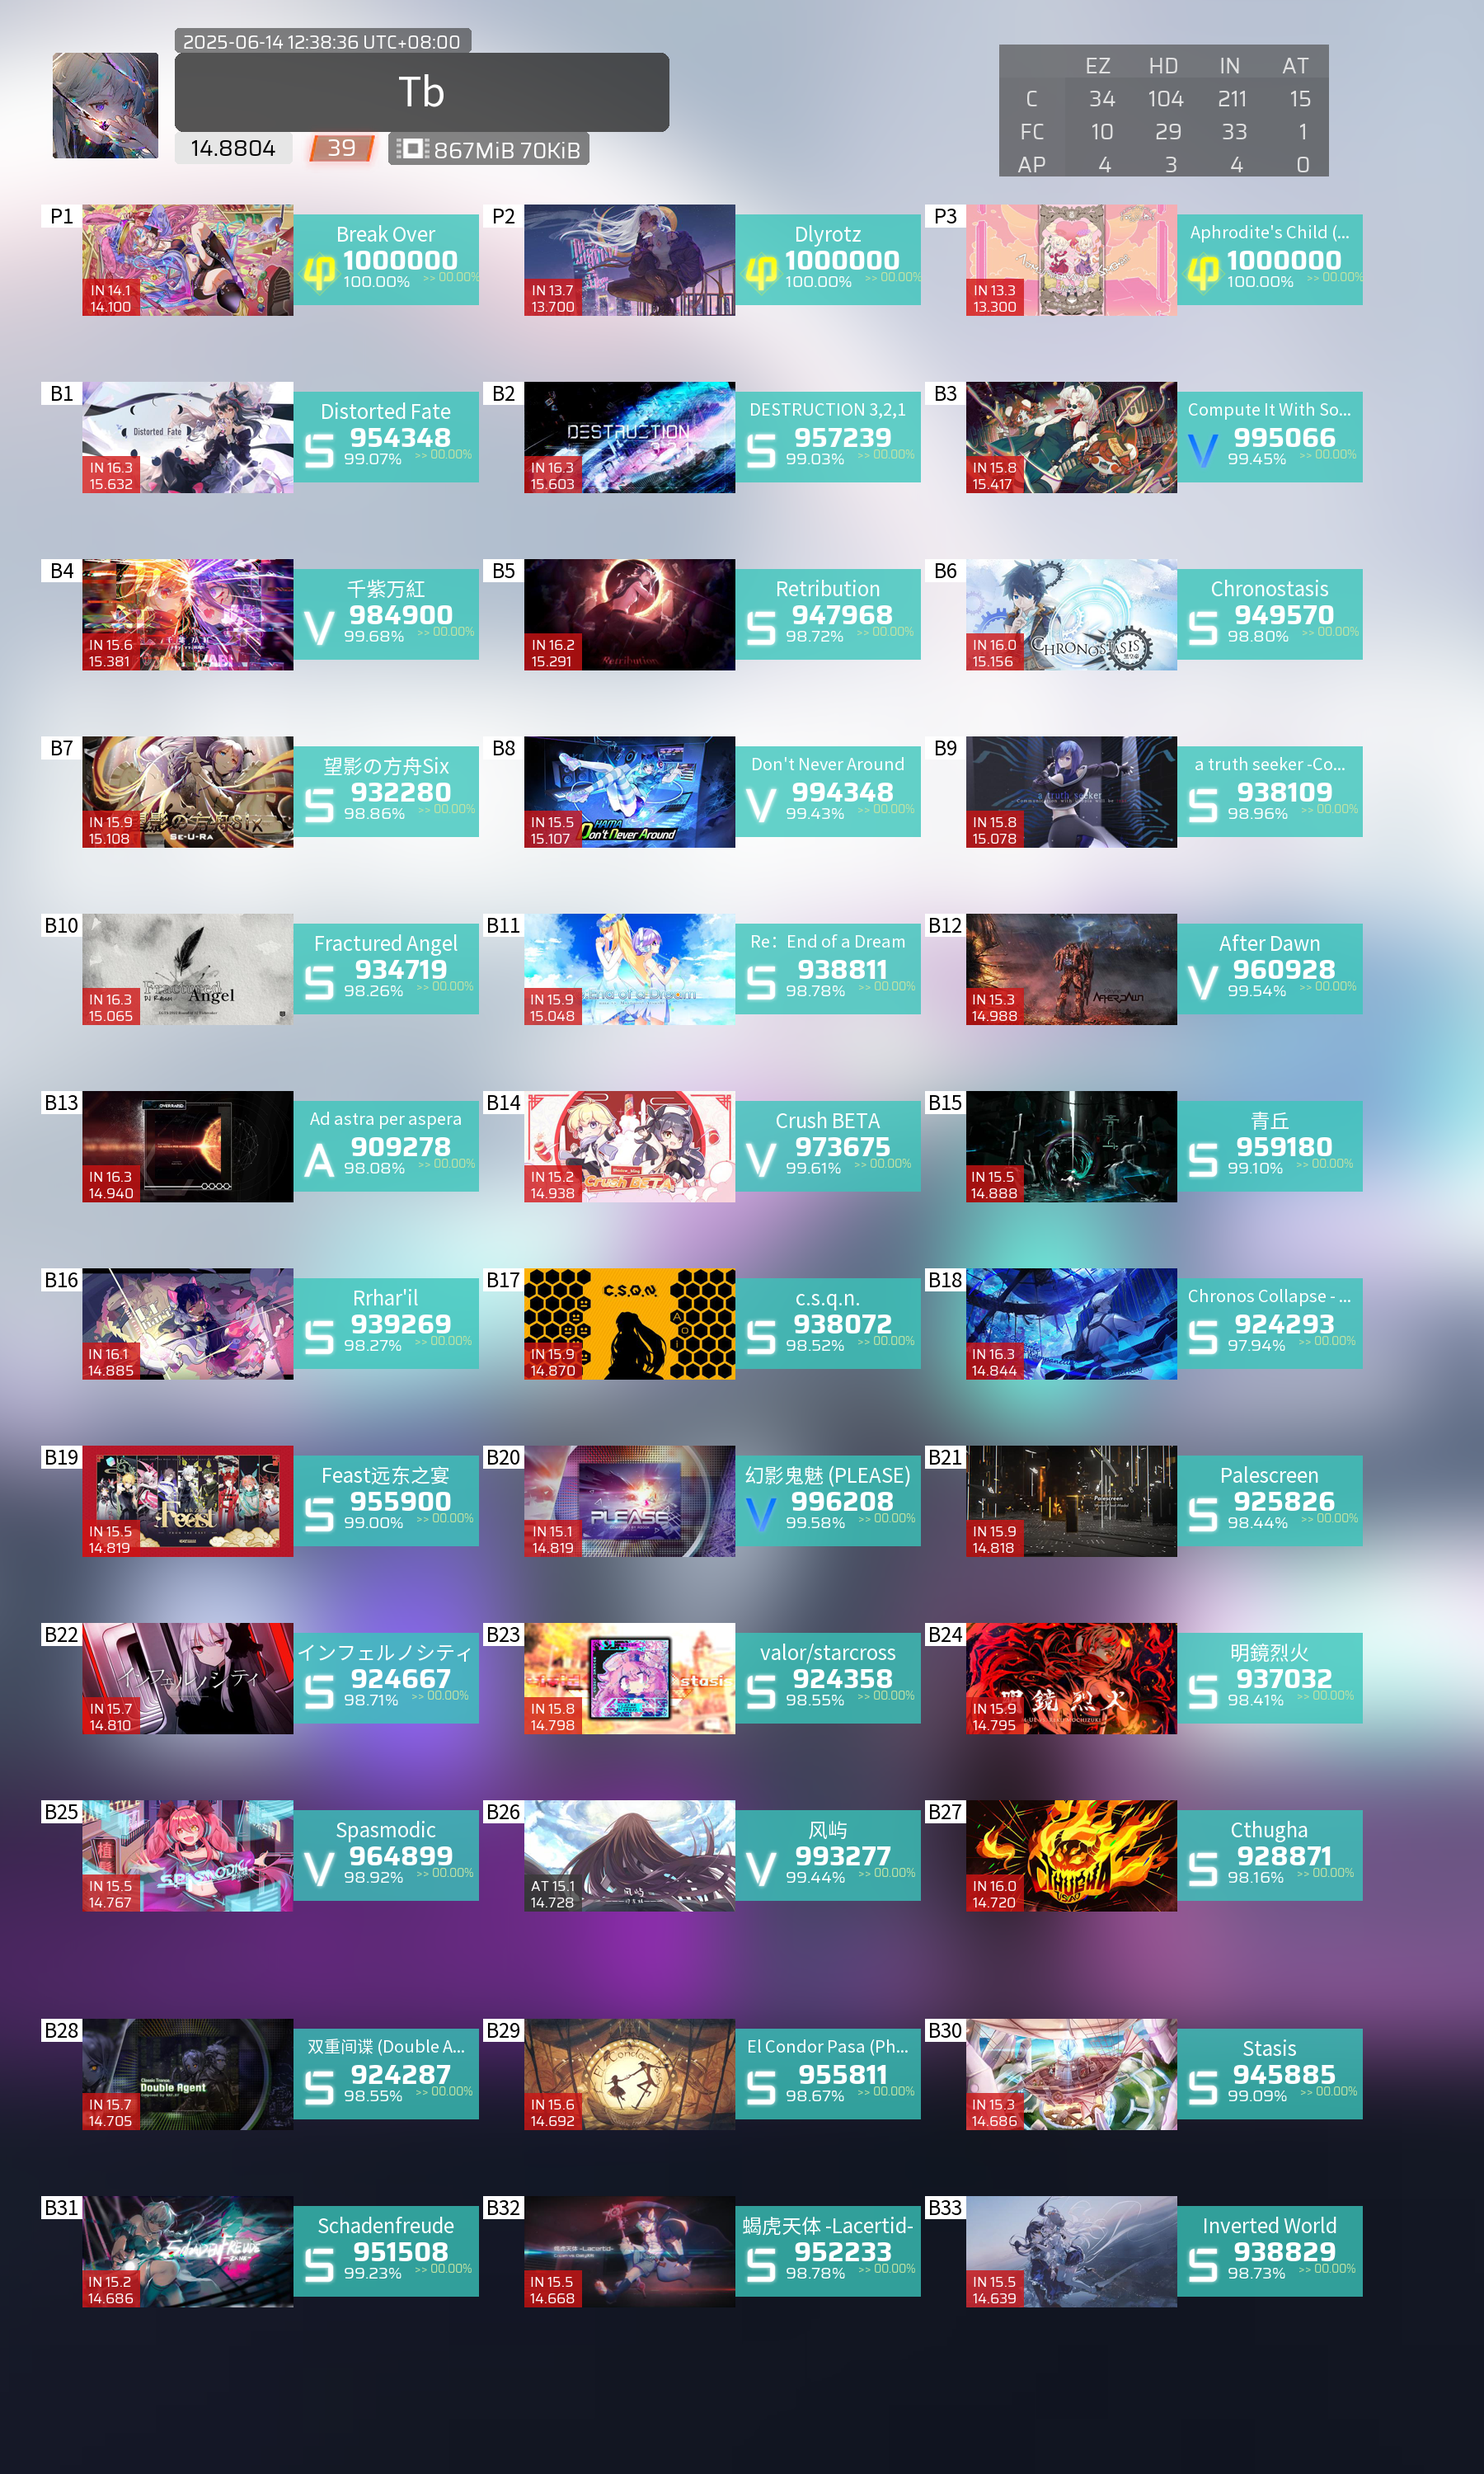
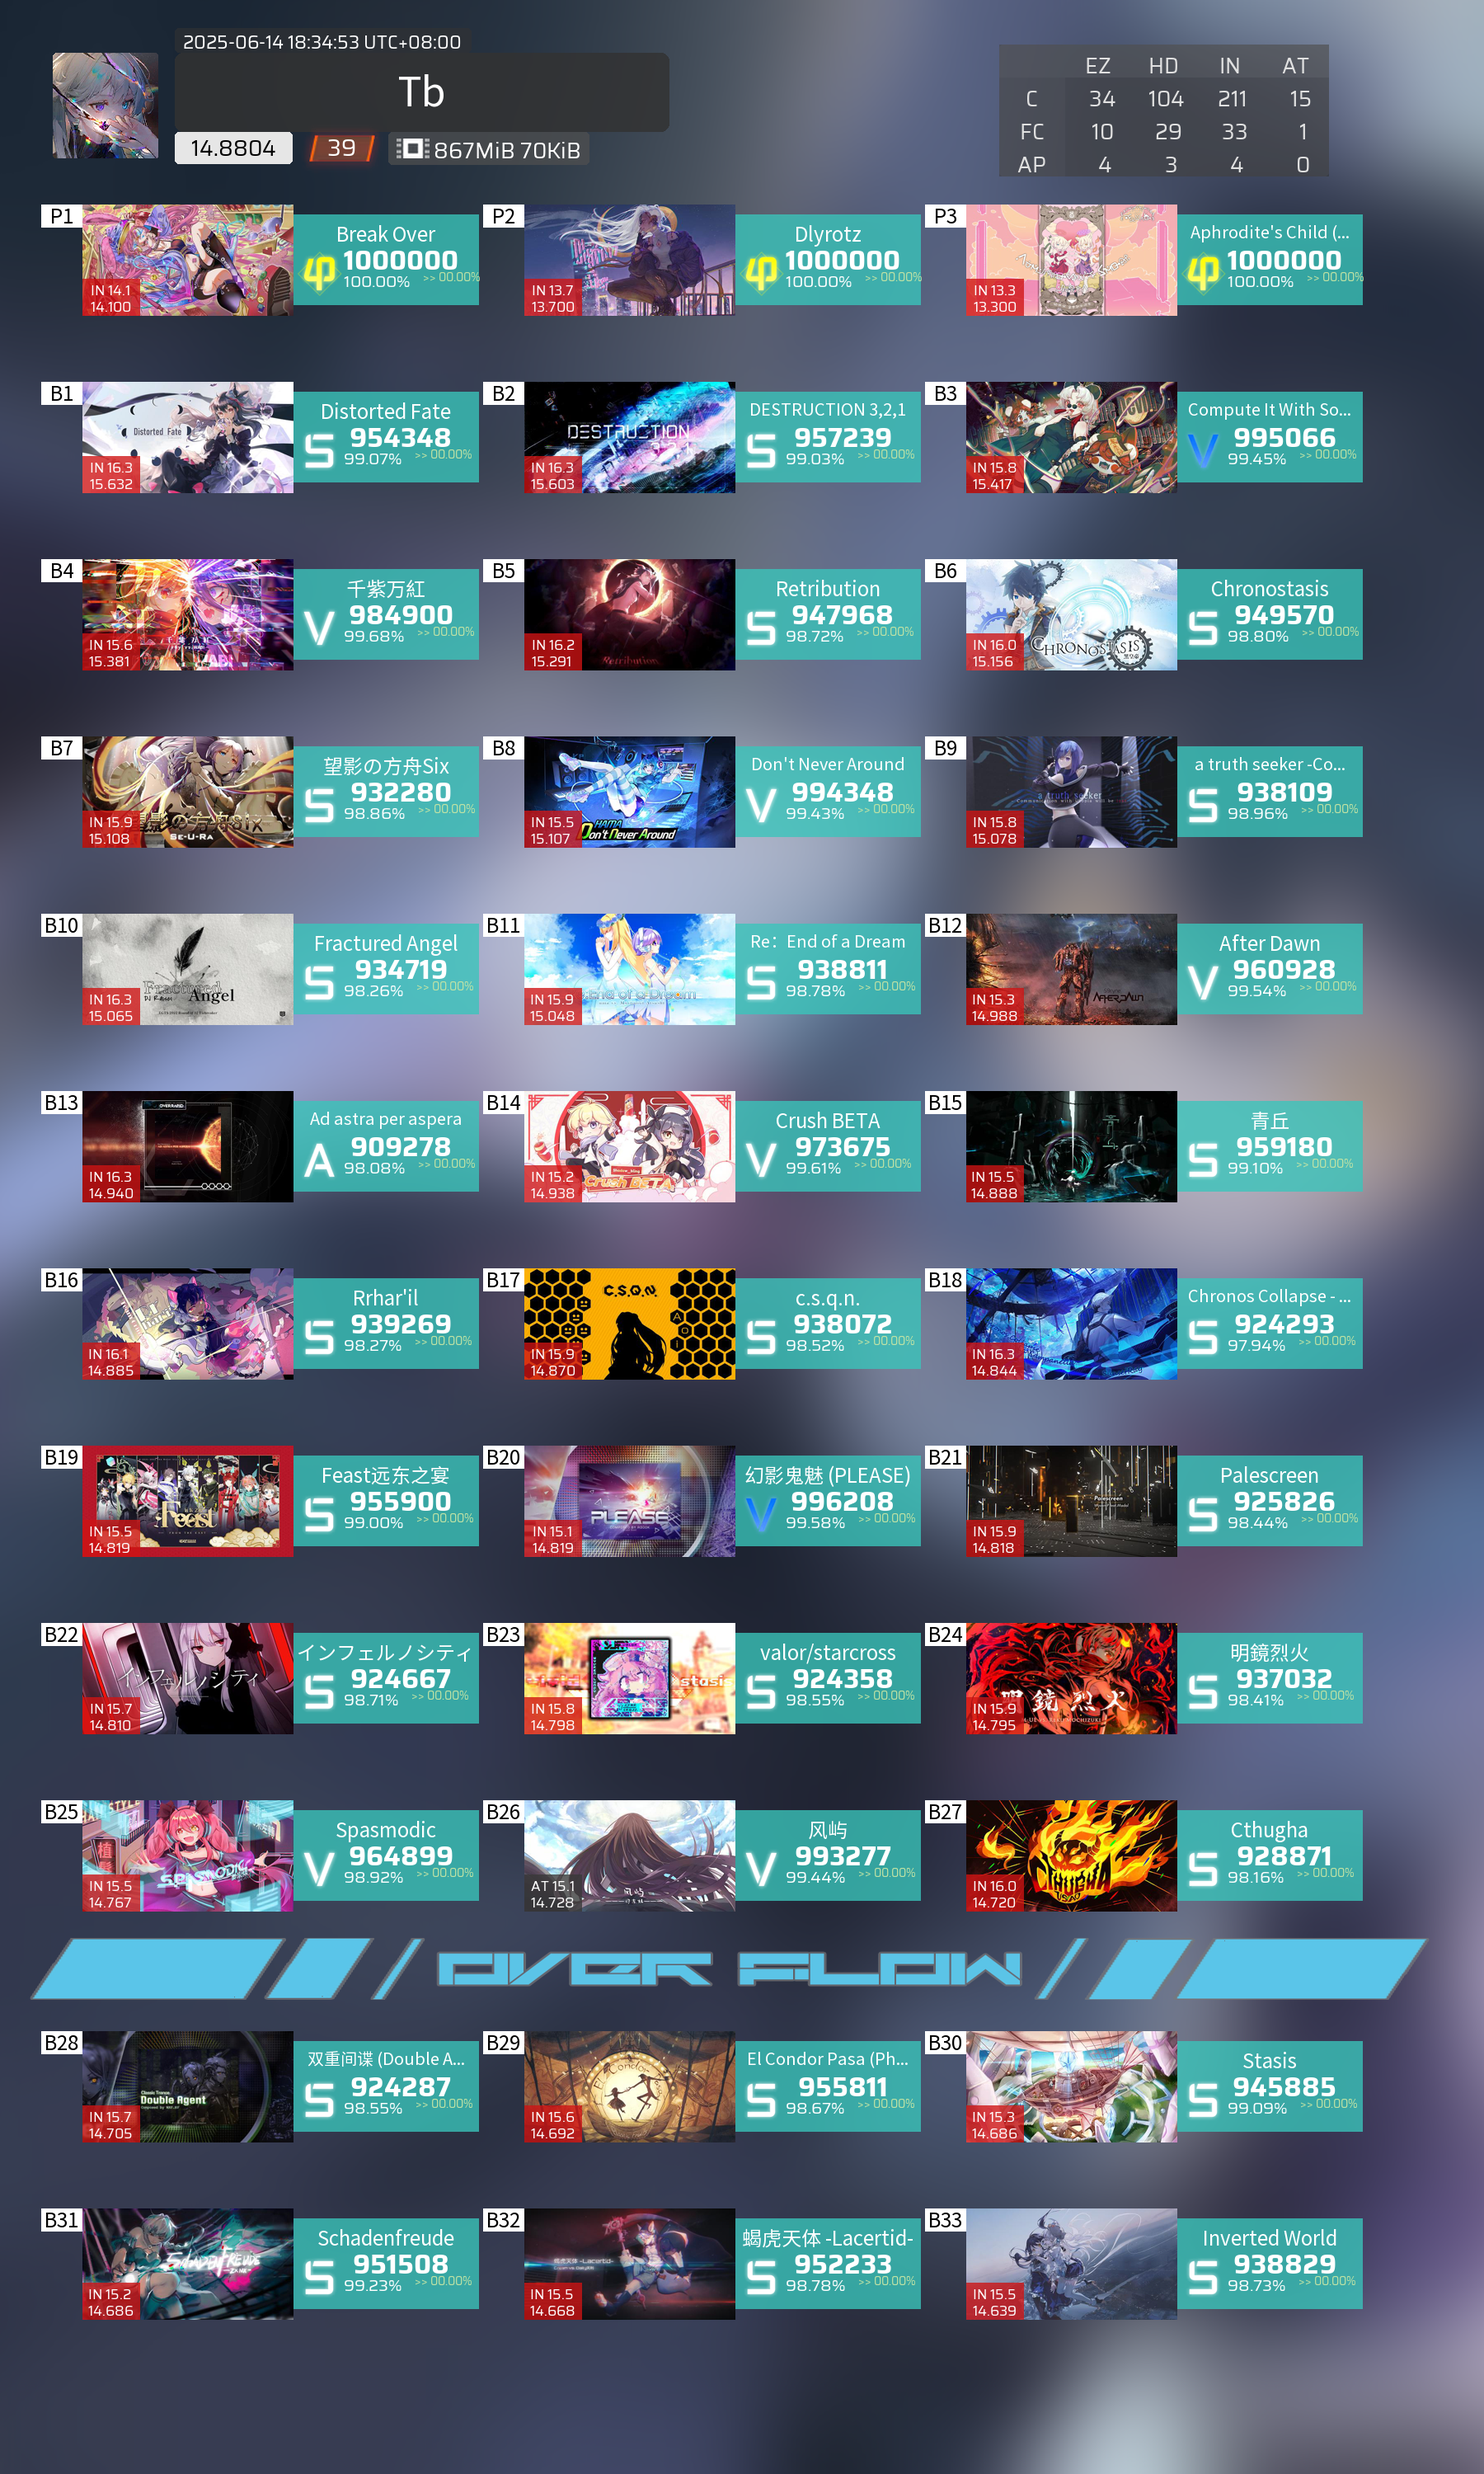
Version0.03 加入Overflow的图片

diff --git a/main.py b/main.py
@@ -415,7 +415,8 @@ def createImage(a_path, output_path, target_size, blur_radius, avatar, b27, user
             max_len -= 1
         
         return ellipsis  # 极端情况（max_width极小）
-
+    OVERFLOW=Image.open("Resource/OVERFLOW.png").convert('RGBA').resize((1700,75))
+    final_img.paste(OVERFLOW,(35,2350),mask=OVERFLOW)
     # 绘制所有B27元素
     for idx, item in enumerate(b27):
         row = idx // 3
@@ -424,7 +425,7 @@ def createImage(a_path, output_path, target_size, blur_radius, avatar, b27, user
         # 计算位置
         x = 50 + col * (cell_width + 50)
         y = start_y + row * (cell_height - 20)
-        if idx >= 30: y+=50
+        if idx >= 30: y += 65
         # 边界检查
             
         draw = ImageDraw.Draw(final_img)
@@ -796,4 +797,4 @@ createImage(
     updatetime=str(updatetime),
     progress=progress
 )
-# ver 0.02
+# ver 0.03
